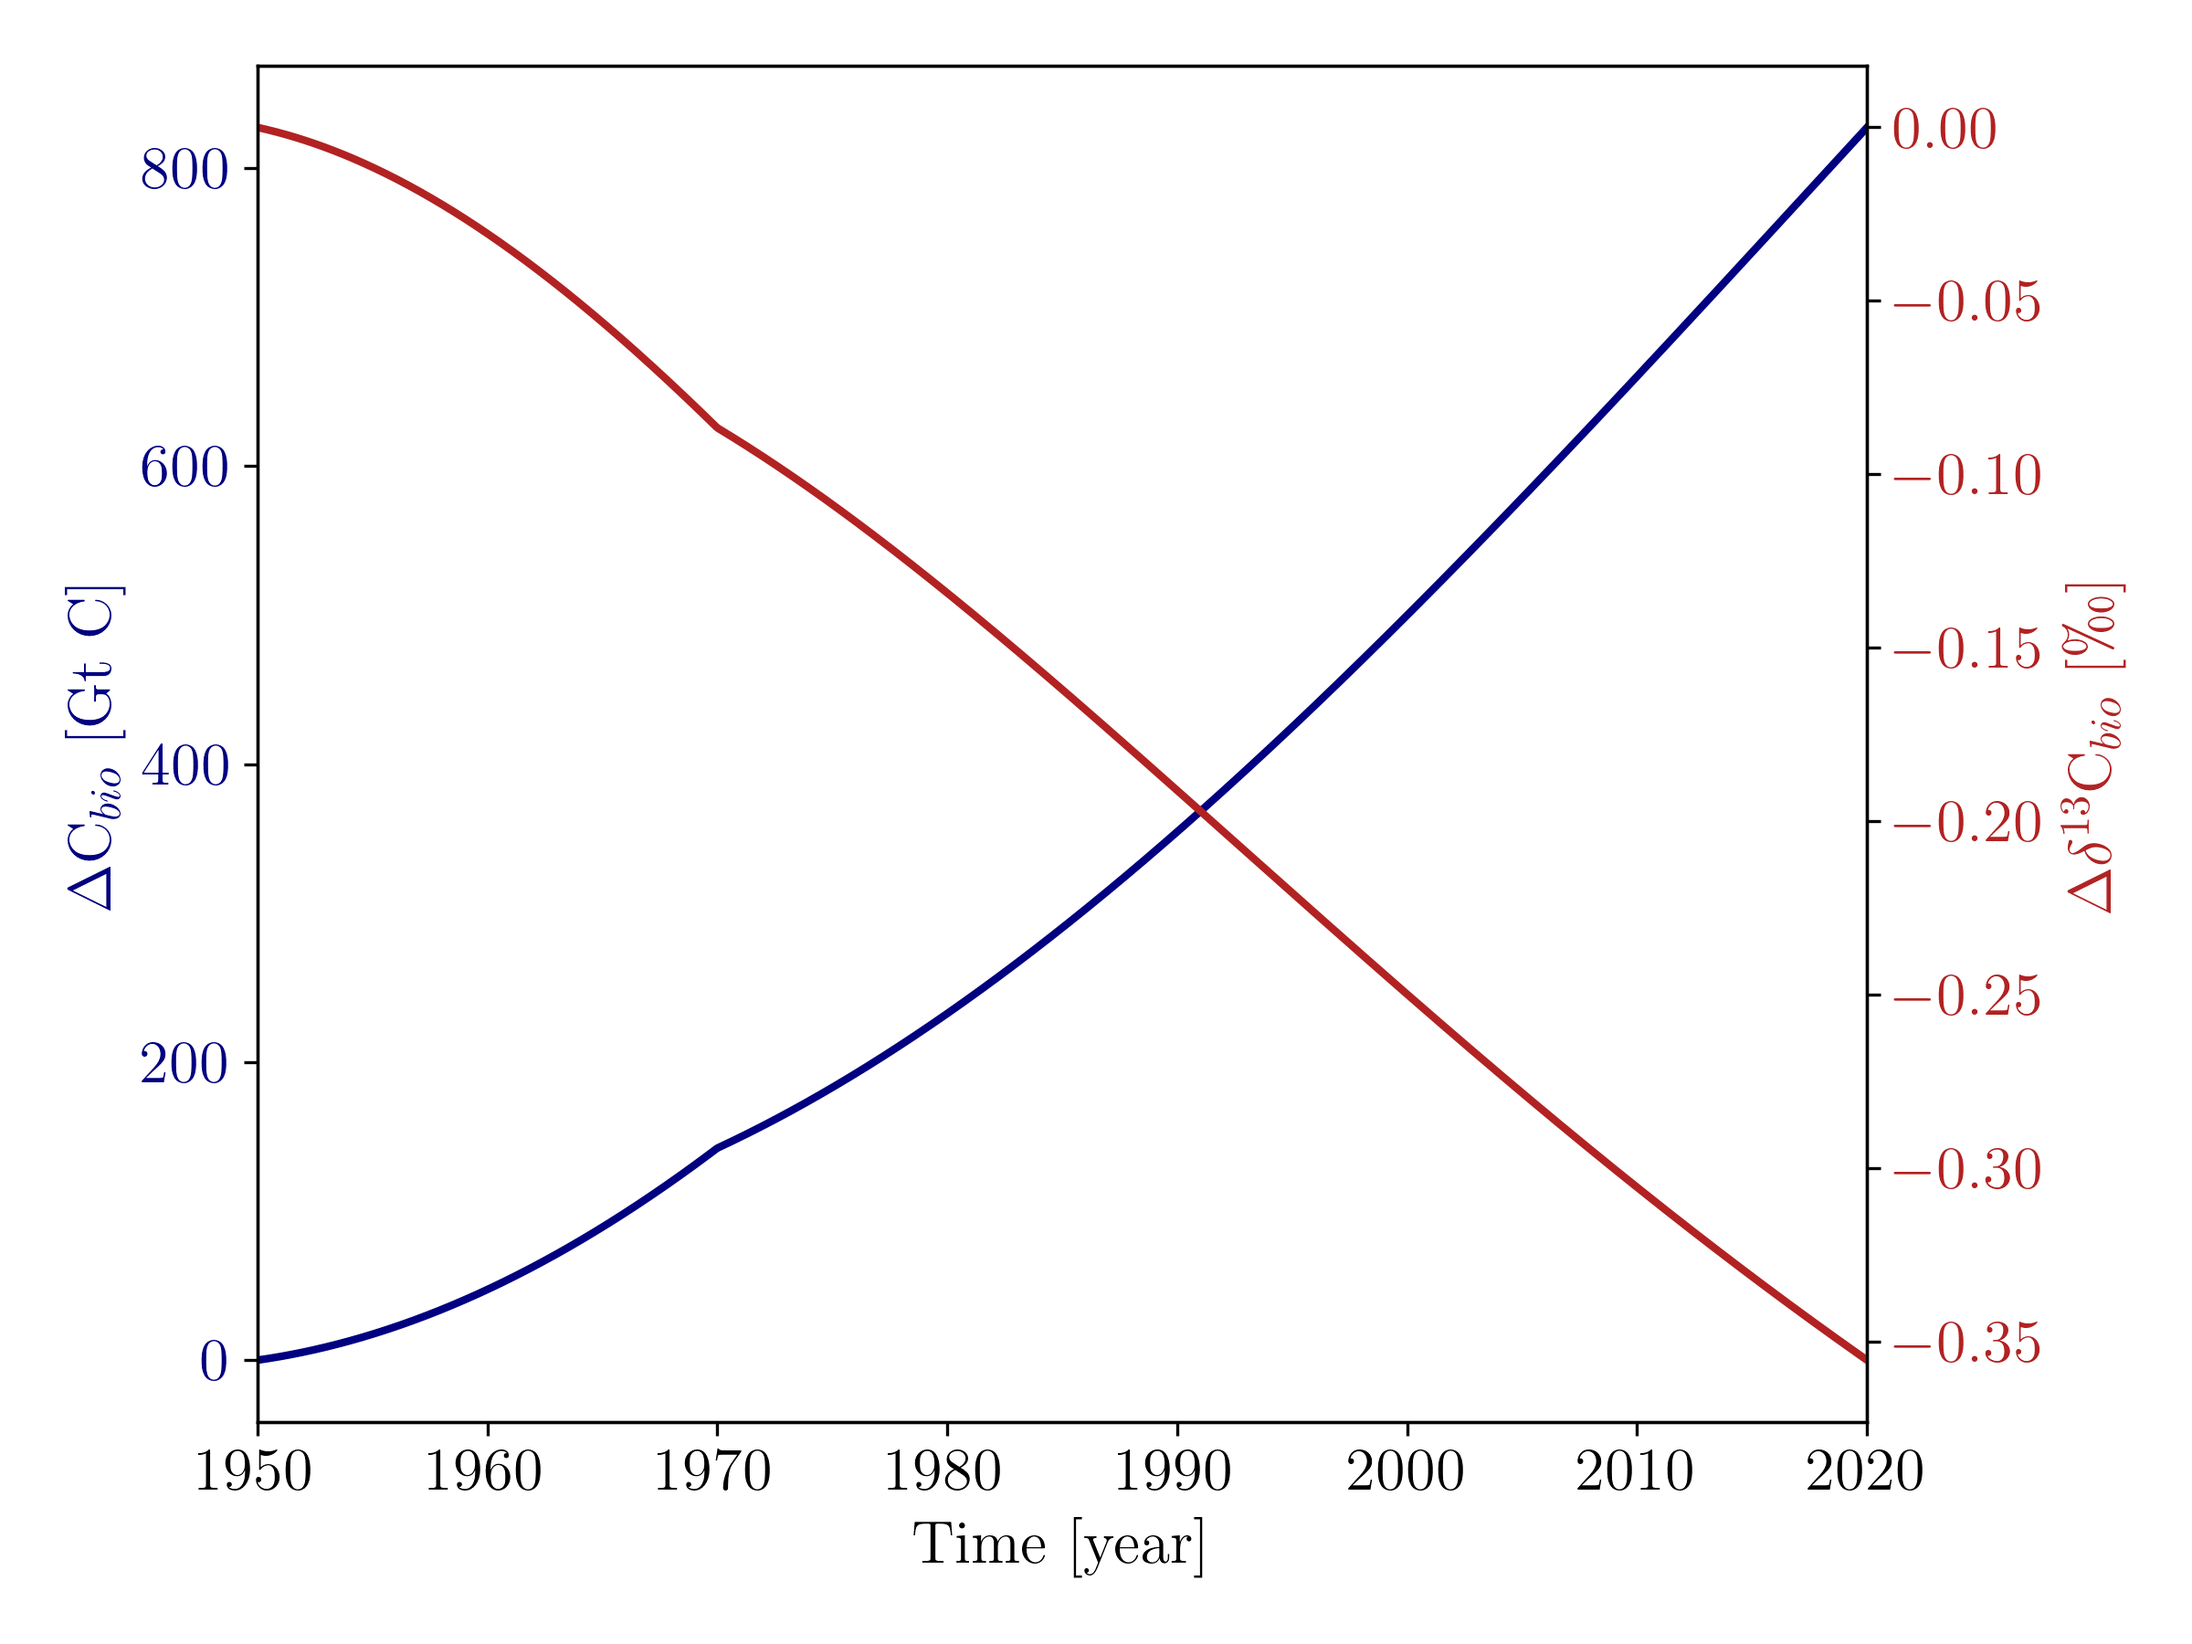
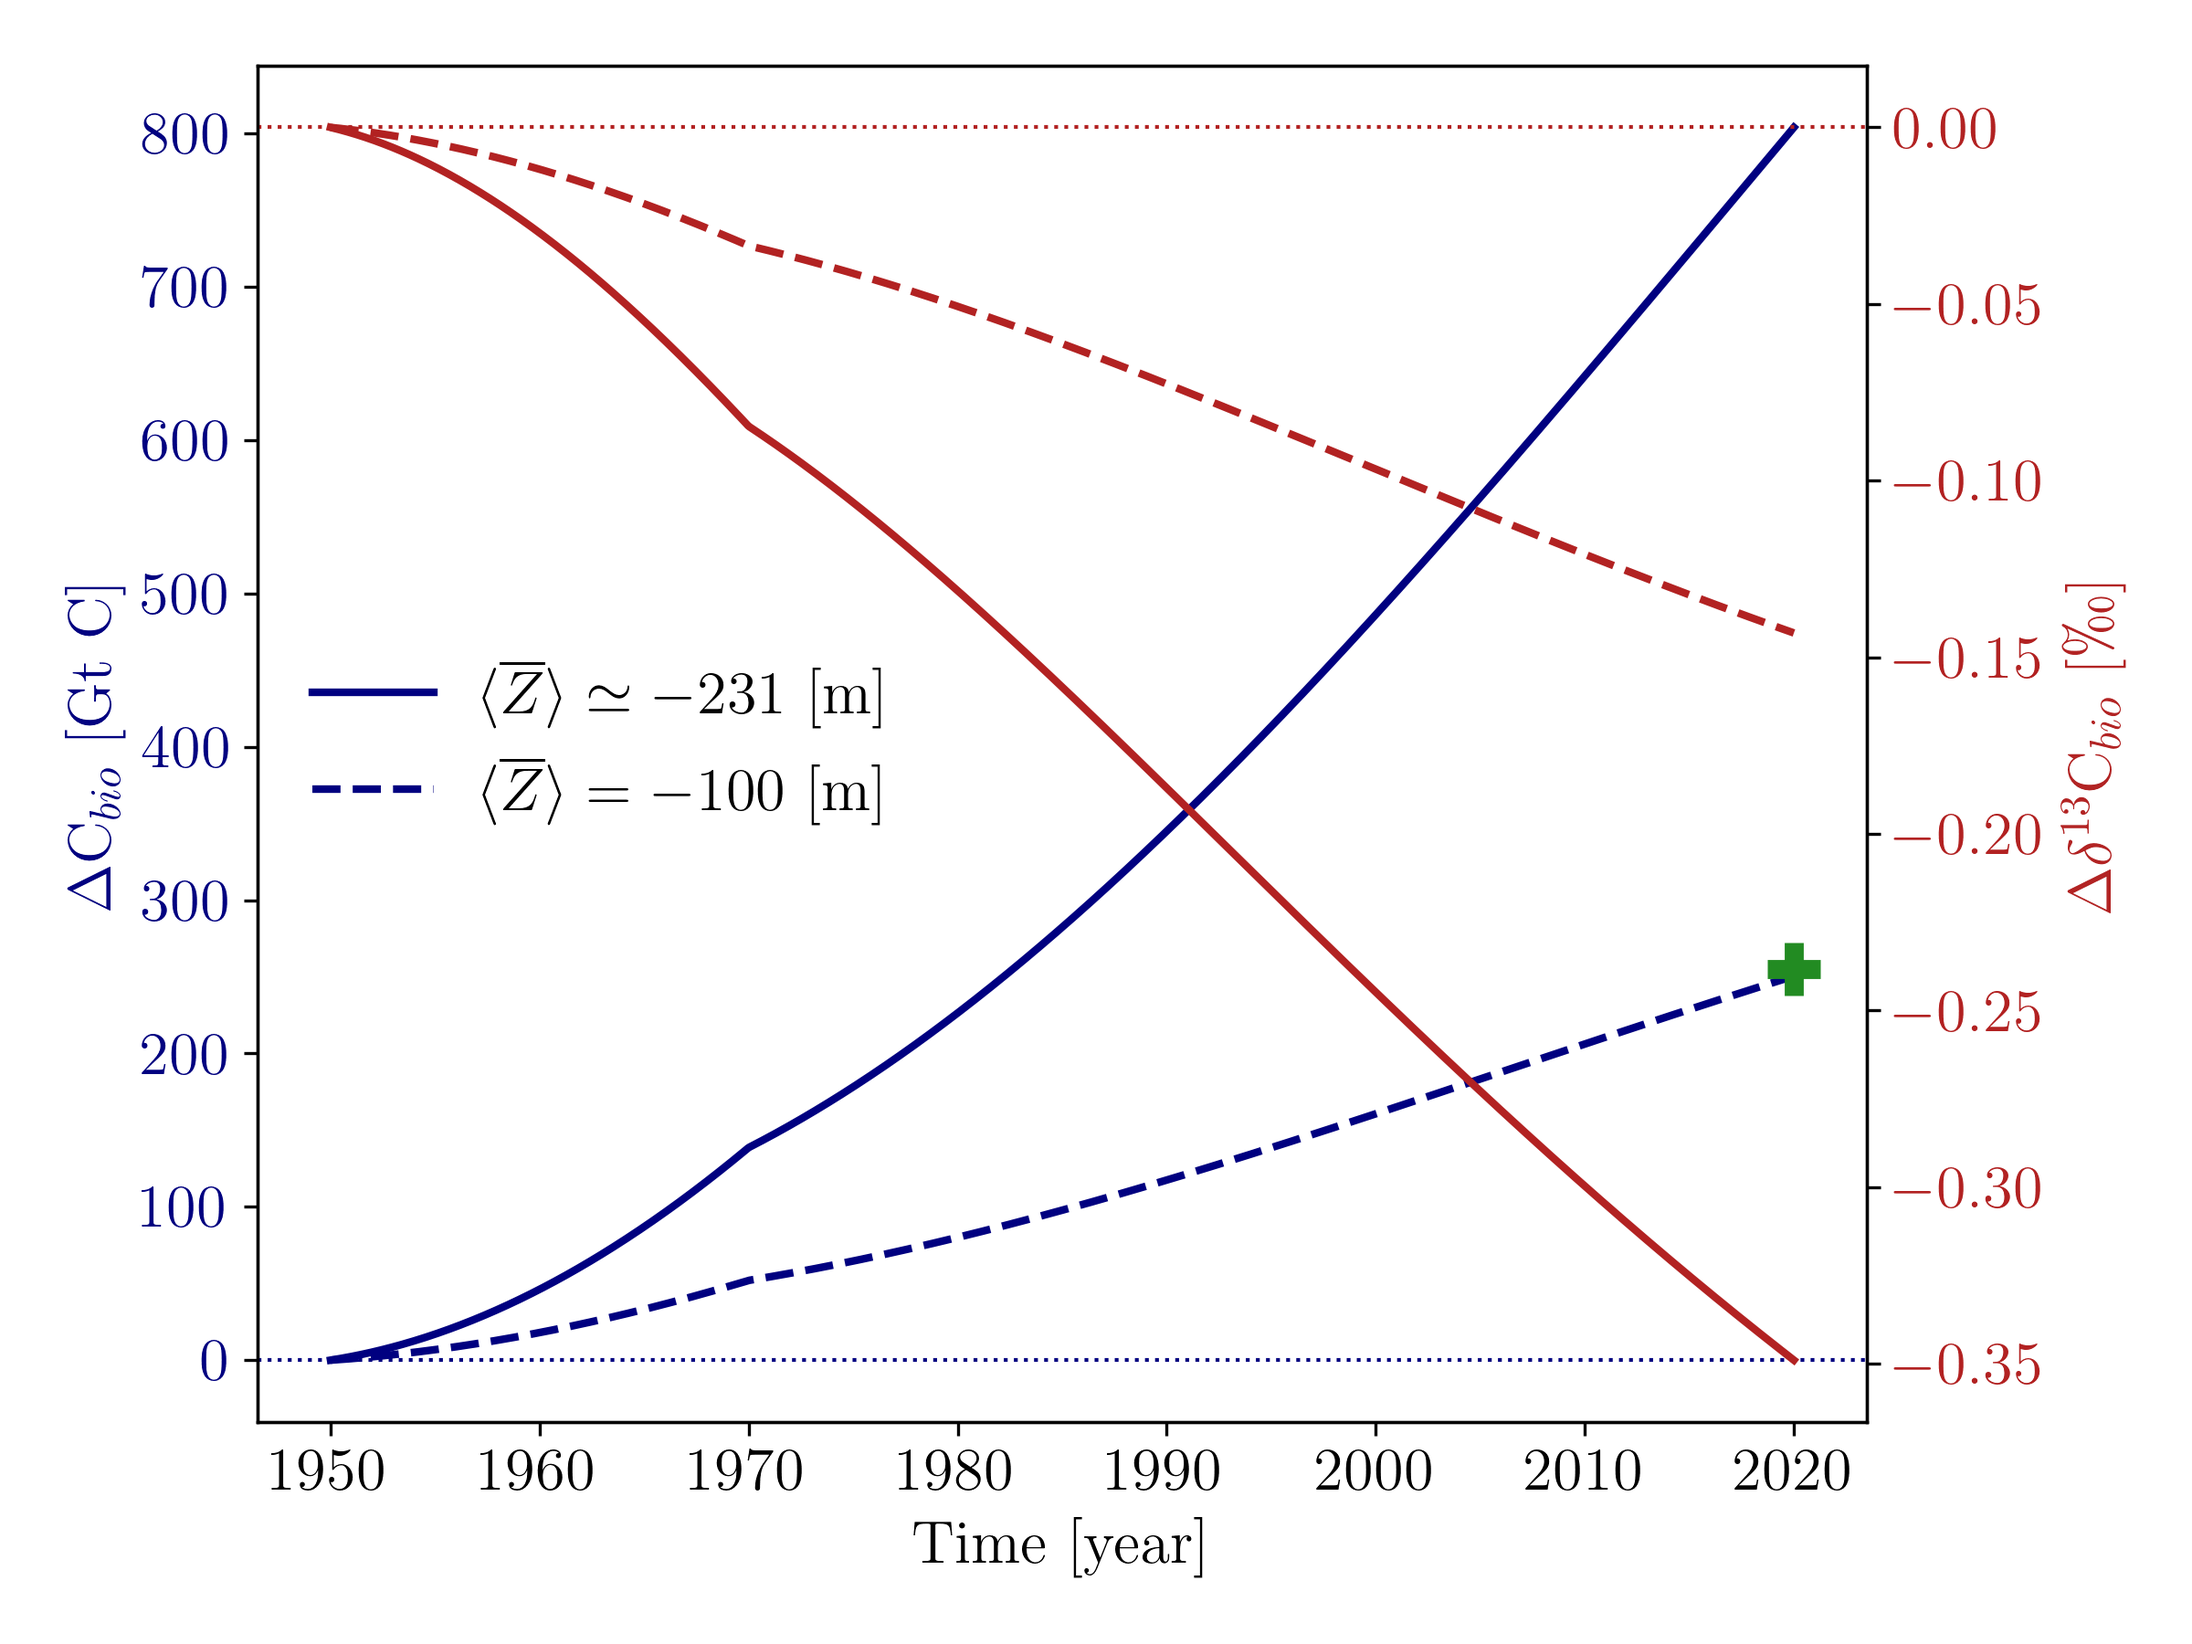
adding in final plots for 12.744 ps3

diff --git a/blog/course_notes/courses/12744/problem_sets/ps3/12744_ps3.html b/blog/course_notes/courses/12744/problem_sets/ps3/12744_ps3.html
@@ -13,6 +13,7 @@ h1 {text-align: center;}
   text-align: center;
 }
 figure {text-align: center;}
+figcaption {text-align: justify}
 </style>
 
 <script>
@@ -41,9 +42,72 @@ MathJax = {
 
 <figure>
 	<img src="images/prob1.png" style="width:50%">
-	<figcaption> Fig. 1: A range of scenarios for both $\delta^{13}$C and $\Delta^{14}$C between 1950 and 2020.</figcaption>
+	<figcaption> 
+		Fig. 1: A range of scenarios for both $\delta^{13}C$ and $\Delta^{14}C$ between 1950 and 2020 for differing emission scenarios.
+		(top) The total emitted carbon into the atmosphere, $C_a$, for a scenario in which all anthropogenic emissions were into the atmosphere (solid black line), an approximation of an observed emission scenario for the green marker (dashed black line), and the pre-industrial level (dotted black line).
+		(middle) The resulting  $\delta^{13}C$ scenarios for the atmosphere only (solid blue line) and observed (dash-dot for that given in problem and dotted, for data from Graven <i>et al. </i> 2017). The dashed line is the scenario in which all additional anthropogenic carbon not left in the atmosphere was placed in the ocean (corresponding to the dashed black line in the top plot).
+		(bottom) An approximated forcing for $\Delta_{14}C$ without the biosphere or ocean resevoirs (solid red line), as well as data (thick dotted, again from Graven <i>et al. </i> 2017). The thin dashed line is the 0 line.
+	</figcaption>
 </figure>
 
+<h4>Calculations</h4>
+<p>
+We first want to assume a model in which all anthropogenic forcings are placed into the atmosphere, which we define as follows:
+\begin{equation}
+	\frac{\textrm{d}}{\textrm{d}t}\left[\left(C_a \circ \delta^{13}C_{a}\right)(t)\right] = F(t)\delta^{13}C_a,
+\end{equation}
+where $\left(C_a \circ \delta^{13}C_{a}\right)(t)$ is the weighted product of total carbon in a resevoir denoted by the subscript and the isotope for the same resevoir.
+Here, we define $F$ as the emission forcing given by:
+\begin{equation}
+	F(t) = \left(\frac{2(C_T - \Delta t)}{\Delta t} + r_0\right)t + r_0,
+\end{equation}
+which provides:
+\begin{equation}
+	\widehat{F}(t) = \int\text{d}F = \frac{1}{2}\left(\frac{2(C_T - \Delta t)}{\Delta t} + r_0\right)\tilde{t}^2 + r_0\tilde{t},
+\end{equation}
+for $C_T$ the total emissions over the period $\Delta t$ (i.e., 1950 to 2020), $r_0$ the initial rate of emission (1 [Gt y$^{-1}$]), and $\tilde{t} = t - 1950$.
+This is simply the primitive of the linear increase described in the problem, modified to make the rate self-contained with the total emissions discussed in the problem. 
+Specifically, we change $C_T$, which we do in the top panel (solid and dashed lines) of Fig. 1, to induce different emission scenarios. The solid line scenario is for  $C_T = 440$ [Gt y$^{-1}$] and the dashed line is for  $C_T = 881 - 612 = 269$ [Gt y$^{-1}$].
+</p>
+<p>
+Now, we can define the mixing relationship used to calculate the isotope values by integrating the first equation, using Separation of Variables to get:
+\begin{equation}
+	\int_{t'\in\left[t_0,t\right]} \text{d}\left[\left(C_a \circ \delta^{13}C_{a}\right)(t')\right] = \int_{t_0}^t \text{d}t' \text{F}(t')\delta^{13}C_a,
+\end{equation}
+which gives:
+\begin{equation}
+C_a(t)\delta^{13}C_a(t) = C_a(t_0)\delta^{13}C_a(t_0) + \widehat{F}(t)\delta^{13}C_{p},
+\end{equation}
+where $\delta^{13}C_p$ is the constant isotope value for anthropogenic emissions and we assume $t_0=1950$ is at pre-industrial levels.
+We present the solutions for the two different emission scenarios in the middle plot of Fig. 1 (solid and dashed).
+</p>
+<p>
+Next, we define a piece-wise forcing function for $\Delta^{14}C$ of the form:
+\begin{equation}
+\Delta^{14}C_s(t) = \begin{cases}
+				-20 & 1950 \le t < 1955 \\
+				-20 + 75 \tilde{t} & 1955 \le  t < 1965 \\
+				730 & 1965 \le t
+		      \end{cases}
+\end{equation}
+This is based on analysis and discussion from Graven <i>et al. </i> (2017).
+We then correct for decay by:
+\begin{equation}
+	\Delta^{14}C(t) = \Delta^{14}C_s(t)\exp\left[\lambda\left(t_p - \widehat{t}\right)\right],
+\end{equation}
+where $t_p$ is the data of production (starting in 1955 and ending in 1965), $\widehat{t} = t - 1955$, and $\lambda = \ln 2 / 5730$ [y$^{-1}$].
+We plot $\Delta^{14}C(t)$ in the bottom plot of Fig. 1. 
+</p>
+
+<h4>Comparison to Data</h4>
+<p>
+From the problem, we plot the piece-wise "observed" data (other than the actual observational data, in the dotted line in the middle panel of Fig. 1) in the dot-dash line in the middle plot of Fig. 1, for which we use the following equation:
+\begin{equation}
+	\delta^{13}C(t) = -6.6 -0.025\tilde{t},
+\end{equation}
+from the problem.
+
+</p>
 
 
 <h3>Problem 2</h3>
@@ -76,7 +140,6 @@ MathJax = {
 	<img src="images/prob4_5.png" style="width:50%">
 	<figcaption> Fig. 4: </figcaption>
 </figure>
-
 
 
 <hr style="width: 60em;">
